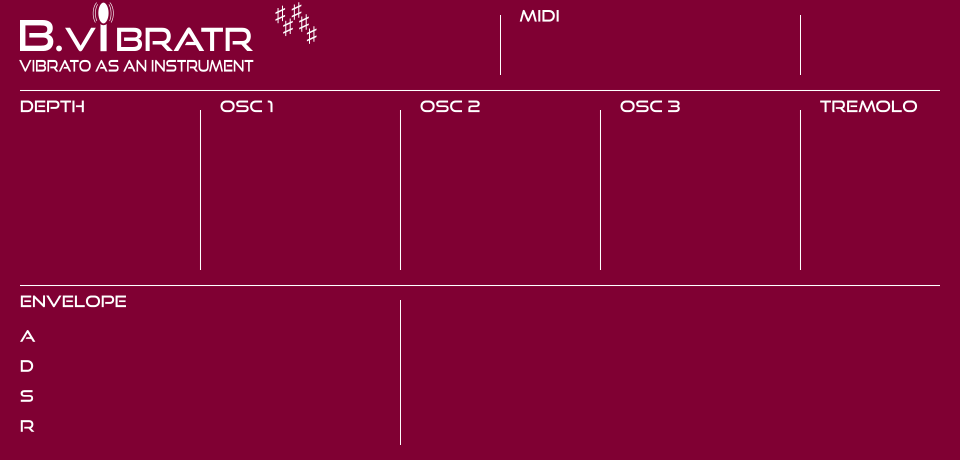
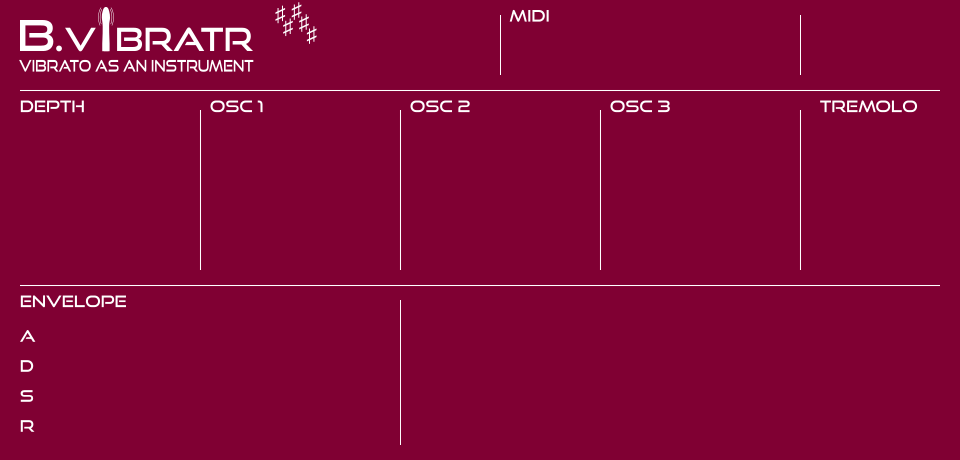
Individual channel selection via checkboxes

diff --git a/src/BVibratrGUI.cpp b/src/BVibratrGUI.cpp
@@ -12,7 +12,7 @@
 #include "BWidgets/BWidgets/Label.hpp"
 #include "BWidgets/BWidgets/Supports/ValueTransferable.hpp"
 #include "BWidgets/BWidgets/Supports/ValueableTyped.hpp"
-
+#include "BWidgets/BWidgets/TextButton.hpp"
 #include "BWidgets/BWidgets/Widget.hpp"
 #include "MIDI_CC.hpp"
 #include "Ports.hpp"
@@ -37,11 +37,11 @@ BVibratrGUI::BVibratrGUI (const char *bundle_path, const LV2_Feature *const *fea
 	bypassLabel (820, 60, 60, 20, BDICT ("Bypass"), URID ("/ctlabel")),
 	bypassButton (840, 30, 20, 20, 2, true, false, URID ("/redbutton"), BDICT ("Bypass")),
 	drywetLabel (880, 60, 60, 20, BDICT ("Dry/wet"), URID ("/ctlabel")),
-	drywetDial (890, 20, 40, 40, 1.0, 0.0, 1.0, 0.0, BNOTRANSFERD, BNOTRANSFERD, BDOUBLE_TO_STRING, BSTRING_TO_DOUBLE, URID ("/dial"), BDICT ("Dry/wet")),
-	midiChannelLabel(520, 40, 50, 20, BDICT("Channel") + ":", URID("/label")),
-	midiChannelWidget (580, 40, 40, 20, {/* To be filled later */}, 1, URID("/menu")),
-	midiNoteLabel (650, 40, 40, 20, BDICT("Note") + ":", URID("/label")),
-	midiNoteCombobox(700, 40, 80, 20, {/* To be filled later */}, 1, URID("/menu")),
+	drywetDial (885, 15, 50, 50, 1.0, 0.0, 1.0, 0.0, BNOTRANSFERD, BNOTRANSFERD, BDOUBLE_TO_STRING, BSTRING_TO_DOUBLE, URID ("/dial"), BDICT ("Dry/wet")),
+	midiChannelLabel(510, 20, 50, 20, BDICT("Channel") + ":", URID("/label")),
+	midiChannelWidget (0, 20, 80, 20, 0.1, 0, 0xFFFF, 1.0),
+	midiNoteLabel (720, 20, 40, 20, BDICT("Note") + ":", URID("/label")),
+	midiNoteCombobox(720, 40, 70, 20, {/* To be filled later */}, 1, URID("/menu")),
 	depthIsCcLabel (20, 120, 60, 20, BDICT("Use") + " CC:", URID("/label")),
 	depthIsCcCombobox(20, 140, 160, 20, midiCcNames, 1, URID("/menu")),
 	depthLabel (50, 250, 100, 20, BDICT("Depth"), URID("/ctlabel")),
@@ -108,9 +108,8 @@ BVibratrGUI::BVibratrGUI (const char *bundle_path, const LV2_Feature *const *fea
 	controllerWidgets[BVIBRATR_TREMOLO] = &tremoloDial;
 
 	// Configure widgets
-	for (int i = 1; i <= 16; ++i) midiChannelWidget.addItem(std::to_string(i));
-	midiChannelWidget.addItem(BDICT("None"));
-
+	for (int i = 0; i < 16; ++i) midiChannelBoxes[i] = new BWidgets::TextButton(510 + (i % 8) * 25, 40 + int(i / 8) * 25, 20, 20, std::to_string(i + 1), true, false, URID("/button"));
+	
 	const std::array<const std::string, 12> keys {"C", "C#", "D", "D#", "E", "F", "F#", "G", "G#", "A", "A#", "B"};
 	for (int i = 0; i < 128; ++i) midiNoteCombobox.addItem(std::to_string(i) + " - " + keys[i % 12] + std::to_string(static_cast<int>(i / 12) - 1));
 	midiNoteCombobox.addItem(BDICT("Any"));
@@ -141,6 +140,7 @@ BVibratrGUI::BVibratrGUI (const char *bundle_path, const LV2_Feature *const *fea
 	tremoloDial.setClickable(false);
 	tremoloDial.setScrollable(true);
 
+	midiChannelWidget.hide();
 	depthScreen.hide();
 	osc2Screen1.show();
 	osc2Screen2.show();
@@ -154,6 +154,7 @@ BVibratrGUI::BVibratrGUI (const char *bundle_path, const LV2_Feature *const *fea
 
 	// Set callbacks
 	for (BWidgets::Widget* c : controllerWidgets) c->setCallbackFunction (BEvents::Event::EventType::valueChangedEvent, BVibratrGUI::valueChangedCallback);
+	for (BWidgets::TextButton* m : midiChannelBoxes) m->setCallbackFunction (BEvents::Event::EventType::valueChangedEvent, BVibratrGUI::midiChannelsChangedCallback);
 	//helpButton.setCallbackFunction (BEvents::Event::EventType::buttonPressEvent, BVibratrGUI::helpButtonClickedCallback);
 	//ytButton.setCallbackFunction (BEvents::Event::EventType::buttonPressEvent, BVibratrGUI::ytButtonClickedCallback);
 
@@ -162,6 +163,7 @@ BVibratrGUI::BVibratrGUI (const char *bundle_path, const LV2_Feature *const *fea
 	mContainer.add(&bypassLabel);
 	mContainer.add(&drywetLabel);
 	mContainer.add(&midiChannelLabel);
+	for (BWidgets::TextButton* m : midiChannelBoxes) mContainer.add(m);
 	mContainer.add(&midiNoteLabel);
 	mContainer.add(&depthIsCcLabel);
 	mContainer.add(&depthLabel);
@@ -191,7 +193,10 @@ BVibratrGUI::BVibratrGUI (const char *bundle_path, const LV2_Feature *const *fea
 
 }
 
-BVibratrGUI::~BVibratrGUI() {}
+BVibratrGUI::~BVibratrGUI() 
+{
+	for (BWidgets::TextButton* m : midiChannelBoxes) delete m;
+}
 
 void BVibratrGUI::portEvent(uint32_t port_index, uint32_t buffer_size, uint32_t format, const void* buffer)
 {
@@ -242,17 +247,17 @@ void BVibratrGUI::portEvent(uint32_t port_index, uint32_t buffer_size, uint32_t 
 		const uint32_t idx = port_index - BVIBRATR_NR_PORTS;
 		const float* pval = static_cast<const float*> (buffer);
 
-		// Comboboxes which require translation
+		// Special case midi channels
 		if (idx == BVIBRATR_MIDI_CHANNEL)
 		{
-			// TODO enable bitwise selection of each channel. For now, translate to a single channel
-			if (*pval == 0) midiChannelWidget.setValue(17);
-			else
-			{
-				const uint32_t ch = std::log2(*pval) + 1;
-				midiChannelWidget.setValue(ch);
-			}
+			midiChannelWidget.setValue(*pval);
+			const uint32_t ival = static_cast<uint32_t>(*pval);
+
+			// And bitwise selection of each channel.
+			for (int i = 0; i < 16; ++i) midiChannelBoxes[i]->setValue(ival & (1 << i));
 		}
+
+		// Comboboxes which require translation
 		else if ((idx == BVIBRATR_MIDI_NOTE) || (idx == BVIBRATR_DEPTH_IS_CC))
 		{
 			BWidgets::ComboBox* combobox = dynamic_cast<BWidgets::ComboBox*>(controllerWidgets[idx]);
@@ -514,14 +519,7 @@ void BVibratrGUI::valueChangedCallback (BEvents::Event* event)
 	if (idx < BVIBRATR_NR_CONTROLLERS)
 	{
 		// Comboboxes which require translation
-		if (idx == BVIBRATR_MIDI_CHANNEL)
-		{
-			const size_t combobox_idx = ui->midiChannelWidget.getValue();
-			const uint32_t ch_bits = (combobox_idx == 17 ? 0 : (1 << static_cast<const uint32_t>(combobox_idx - 1)));
-			value = ch_bits;
-		}
-
-		else if ((idx == BVIBRATR_MIDI_NOTE) || (idx == BVIBRATR_DEPTH_IS_CC)) 
+		if ((idx == BVIBRATR_MIDI_NOTE) || (idx == BVIBRATR_DEPTH_IS_CC)) 
 		{
 			BWidgets::ComboBox* combobox = dynamic_cast<BWidgets::ComboBox*>(widget);
 			if (combobox)
@@ -608,6 +606,35 @@ void BVibratrGUI::valueChangedCallback (BEvents::Event* event)
 		ui->write_function(ui->controller, BVIBRATR_NR_PORTS + idx, sizeof(float), 0, &value);
 	}
 	
+}
+
+void BVibratrGUI::midiChannelsChangedCallback (BEvents::Event* event)
+{
+	
+	if (!event) return;
+
+	BWidgets::Widget* widget = event->getWidget ();
+	if (!widget) return;
+
+	BWidgets::TextButton* textButton = dynamic_cast<BWidgets::TextButton*>(widget);
+	if (!textButton) return;
+
+	BVibratrGUI* ui = dynamic_cast<BVibratrGUI*> (widget->getMainWindow());
+	if (!ui) return;
+
+	// Identify widget
+	for (int i = 0; i < 16; ++i)
+	{
+		if (textButton == ui->midiChannelBoxes[i])
+		{
+			const uint32_t ival = 1 << i;
+			uint32_t mval = ui->midiChannelWidget.getValue();
+			mval &= (~ival) & mval;								// Delete bit
+			mval |= textButton->getValue() * ival;				// Set bit or not
+			ui->midiChannelWidget.setValue(mval);
+			break;
+		}
+	}
 }
 
 /*

diff --git a/src/BVibratrGUI.hpp b/src/BVibratrGUI.hpp
@@ -16,6 +16,7 @@
 #include "BWidgets/BWidgets/Label.hpp"
 #include "BWidgets/BWidgets/ComboBox.hpp"
 #include "BWidgets/BWidgets/Image.hpp"
+#include "BWidgets/BWidgets/TextButton.hpp"
 
 #include "BDial.hpp"
 #include "ValueHSlider.hpp"
@@ -50,6 +51,7 @@ private:
 	void drawAdsr ();
 	void drawWaveform ();
 	static void valueChangedCallback (BEvents::Event* event);
+	static void midiChannelsChangedCallback (BEvents::Event* event);
 	//static void helpButtonClickedCallback (BEvents::Event* event);
 	//static void ytButtonClickedCallback (BEvents::Event* event);
 
@@ -68,7 +70,8 @@ private:
 	BWidgets::Label drywetLabel;
     BDial drywetDial;
 	BWidgets::Label midiChannelLabel;
-	BWidgets::ComboBox midiChannelWidget;	// TODO Replace by Box containing CheckBoxes
+	BWidgets::HSlider midiChannelWidget;	// Dummy for handling midiChannelBoxes
+	std::array<BWidgets::TextButton*, 16> midiChannelBoxes;
 	BWidgets::Label midiNoteLabel;
 	BWidgets::ComboBox midiNoteCombobox;
 	BWidgets::Label depthIsCcLabel;
@@ -117,13 +120,14 @@ private:
 	// Definition of styles
 	BStyles::ColorMap fgColors = BStyles::ColorMap {{{1.0, 1.0, 1.0, 1.0}, {1.0, 1.0, 1.0, 1.0}, {0.5, 0.5, 0.5, 1.0}, {0.0, 0.0, 0.0, 0.0}}};
 	BStyles::ColorMap txColors = BStyles::ColorMap {{{0.8, 0.8, 0.8, 1.0}, {1.0, 1.0, 1.0, 1.0}, {0.5, 0.5, 0.5, 1.0}, {0.0, 0.0, 0.0, 0.0}}};
-	BStyles::ColorMap bgColors = BStyles::ColorMap {{{0.2, 0.1, 0.15, 1.0}, {0.4, 0.2, 0.3, 1.0}, {0.1, 0.03, 0.05, 1.0}, {0.0, 0.0, 0.0, 0.0}}};
+	BStyles::ColorMap bgColors = BStyles::ColorMap {{{0.2, 0.05, 0.1, 1.0}, {0.4, 0.2, 0.3, 1.0}, {0.1, 0.03, 0.05, 1.0}, {0.0, 0.0, 0.0, 0.0}}};
+	BStyles::ColorMap btColors = BStyles::ColorMap {{{0.0, 0.0, 0.0, 1.0}, {0.4, 0.2, 0.3, 1.0}, {0.0, 0.00, 0.00, 1.0}, {0.0, 0.0, 0.0, 0.0}}};
 	BStyles::ColorMap noColors = BStyles::ColorMap {{{0.0, 0.0, 0.0, 0.0}, {0.0, 0.0, 0.0, 0.0}, {0.0, 0.0, 0.0, 0.0}, {0.0, 0.0, 0.0, 0.0}}};
 
 	BStyles::Border border = {{fgColors[BStyles::Status::normal], 1.0}, 0.0, 2.0, 0.0};
 	BStyles::Border menuBorder = {{noColors[BStyles::Status::normal], 1.0}, 0.0, 0.0, 0.0};
 	BStyles::Border menuBorder2 = {{bgColors[BStyles::Status::normal], 1.0}, 0.0, 0.0, 0.0};
-	BStyles::Border btBorder = BStyles::Border (BStyles::Line (bgColors[BStyles::Status::normal].illuminate (BStyles::Color::darkened), 1.0), 0.0, 0.0, 3.0);
+	BStyles::Border btBorder = BStyles::Border (BStyles::Line (bgColors[BStyles::Status::normal].illuminate (BStyles::Color::darkened), 0.0), 0.0, 0.0, 3.0);
 	BStyles::Border labelBorder = {BStyles::noLine, 4.0, 0.0, 0.0};
 	BStyles::Fill widgetBg = BStyles::noFill;
 	BStyles::Fill screenBg = BStyles::Fill (BStyles::Color ({0.5, 0.0, 0.2, 0.8}));
@@ -194,8 +198,8 @@ private:
 			URID ("/button"), 
 			BStyles::Style 
 			({
-				{BURID(BSTYLES_STYLEPROPERTY_BACKGROUND_URI), BUtilities::makeAny<BStyles::Fill>({BStyles::Fill(fgColors[BStyles::Status::normal])})},
-				{BURID(BSTYLES_STYLEPROPERTY_BGCOLORS_URI), BUtilities::makeAny<BStyles::ColorMap>(fgColors)},
+				{BURID(BSTYLES_STYLEPROPERTY_BACKGROUND_URI), BUtilities::makeAny<BStyles::Fill>({BStyles::Fill(bgColors[BStyles::Status::normal])})},
+				{BURID(BSTYLES_STYLEPROPERTY_BGCOLORS_URI), BUtilities::makeAny<BStyles::ColorMap>(btColors)},
 				{BURID(BSTYLES_STYLEPROPERTY_BORDER_URI), BUtilities::makeAny<BStyles::Border>(btBorder)}
 			})
 		},
@@ -206,7 +210,7 @@ private:
 			BStyles::Style
 			({	
 				{BURID(BSTYLES_STYLEPROPERTY_FONT_URI), BUtilities::makeAny<BStyles::Font>(defaultFont)},
-				{BURID(BSTYLES_STYLEPROPERTY_TXCOLORS_URI), BUtilities::makeAny<BStyles::ColorMap>(bgColors)}
+				{BURID(BSTYLES_STYLEPROPERTY_TXCOLORS_URI), BUtilities::makeAny<BStyles::ColorMap>(txColors)}
 			})
 		},
 
@@ -258,15 +262,6 @@ private:
 			({	
 				{BURID(BSTYLES_STYLEPROPERTY_FONT_URI), BUtilities::makeAny<BStyles::Font>(rFont)},
 				{BURID(BSTYLES_STYLEPROPERTY_TXCOLORS_URI), BUtilities::makeAny<BStyles::ColorMap>(txColors)}
-			})
-		},
-
-		// dot
-		{
-			URID ("/dot"), 
-			BStyles::Style
-			({	
-				{BURID(BSTYLES_STYLEPROPERTY_FGCOLORS_URI), BUtilities::makeAny<BStyles::ColorMap>(txColors)}
 			})
 		},
 

diff --git a/README.md b/README.md
@@ -124,11 +124,11 @@ request or notifying me (issue report, e-mail, ...).
 * Enable trigger on any MIDI key 
 * Report plugin latency to host
 * Click-safe change of osc mode
+* Select channels using checkboxes
 
 
 ## TODOs
 
-* Select channels using checkboxes
 * Used-defined waveforms
 * Internationalization
 * Presets
